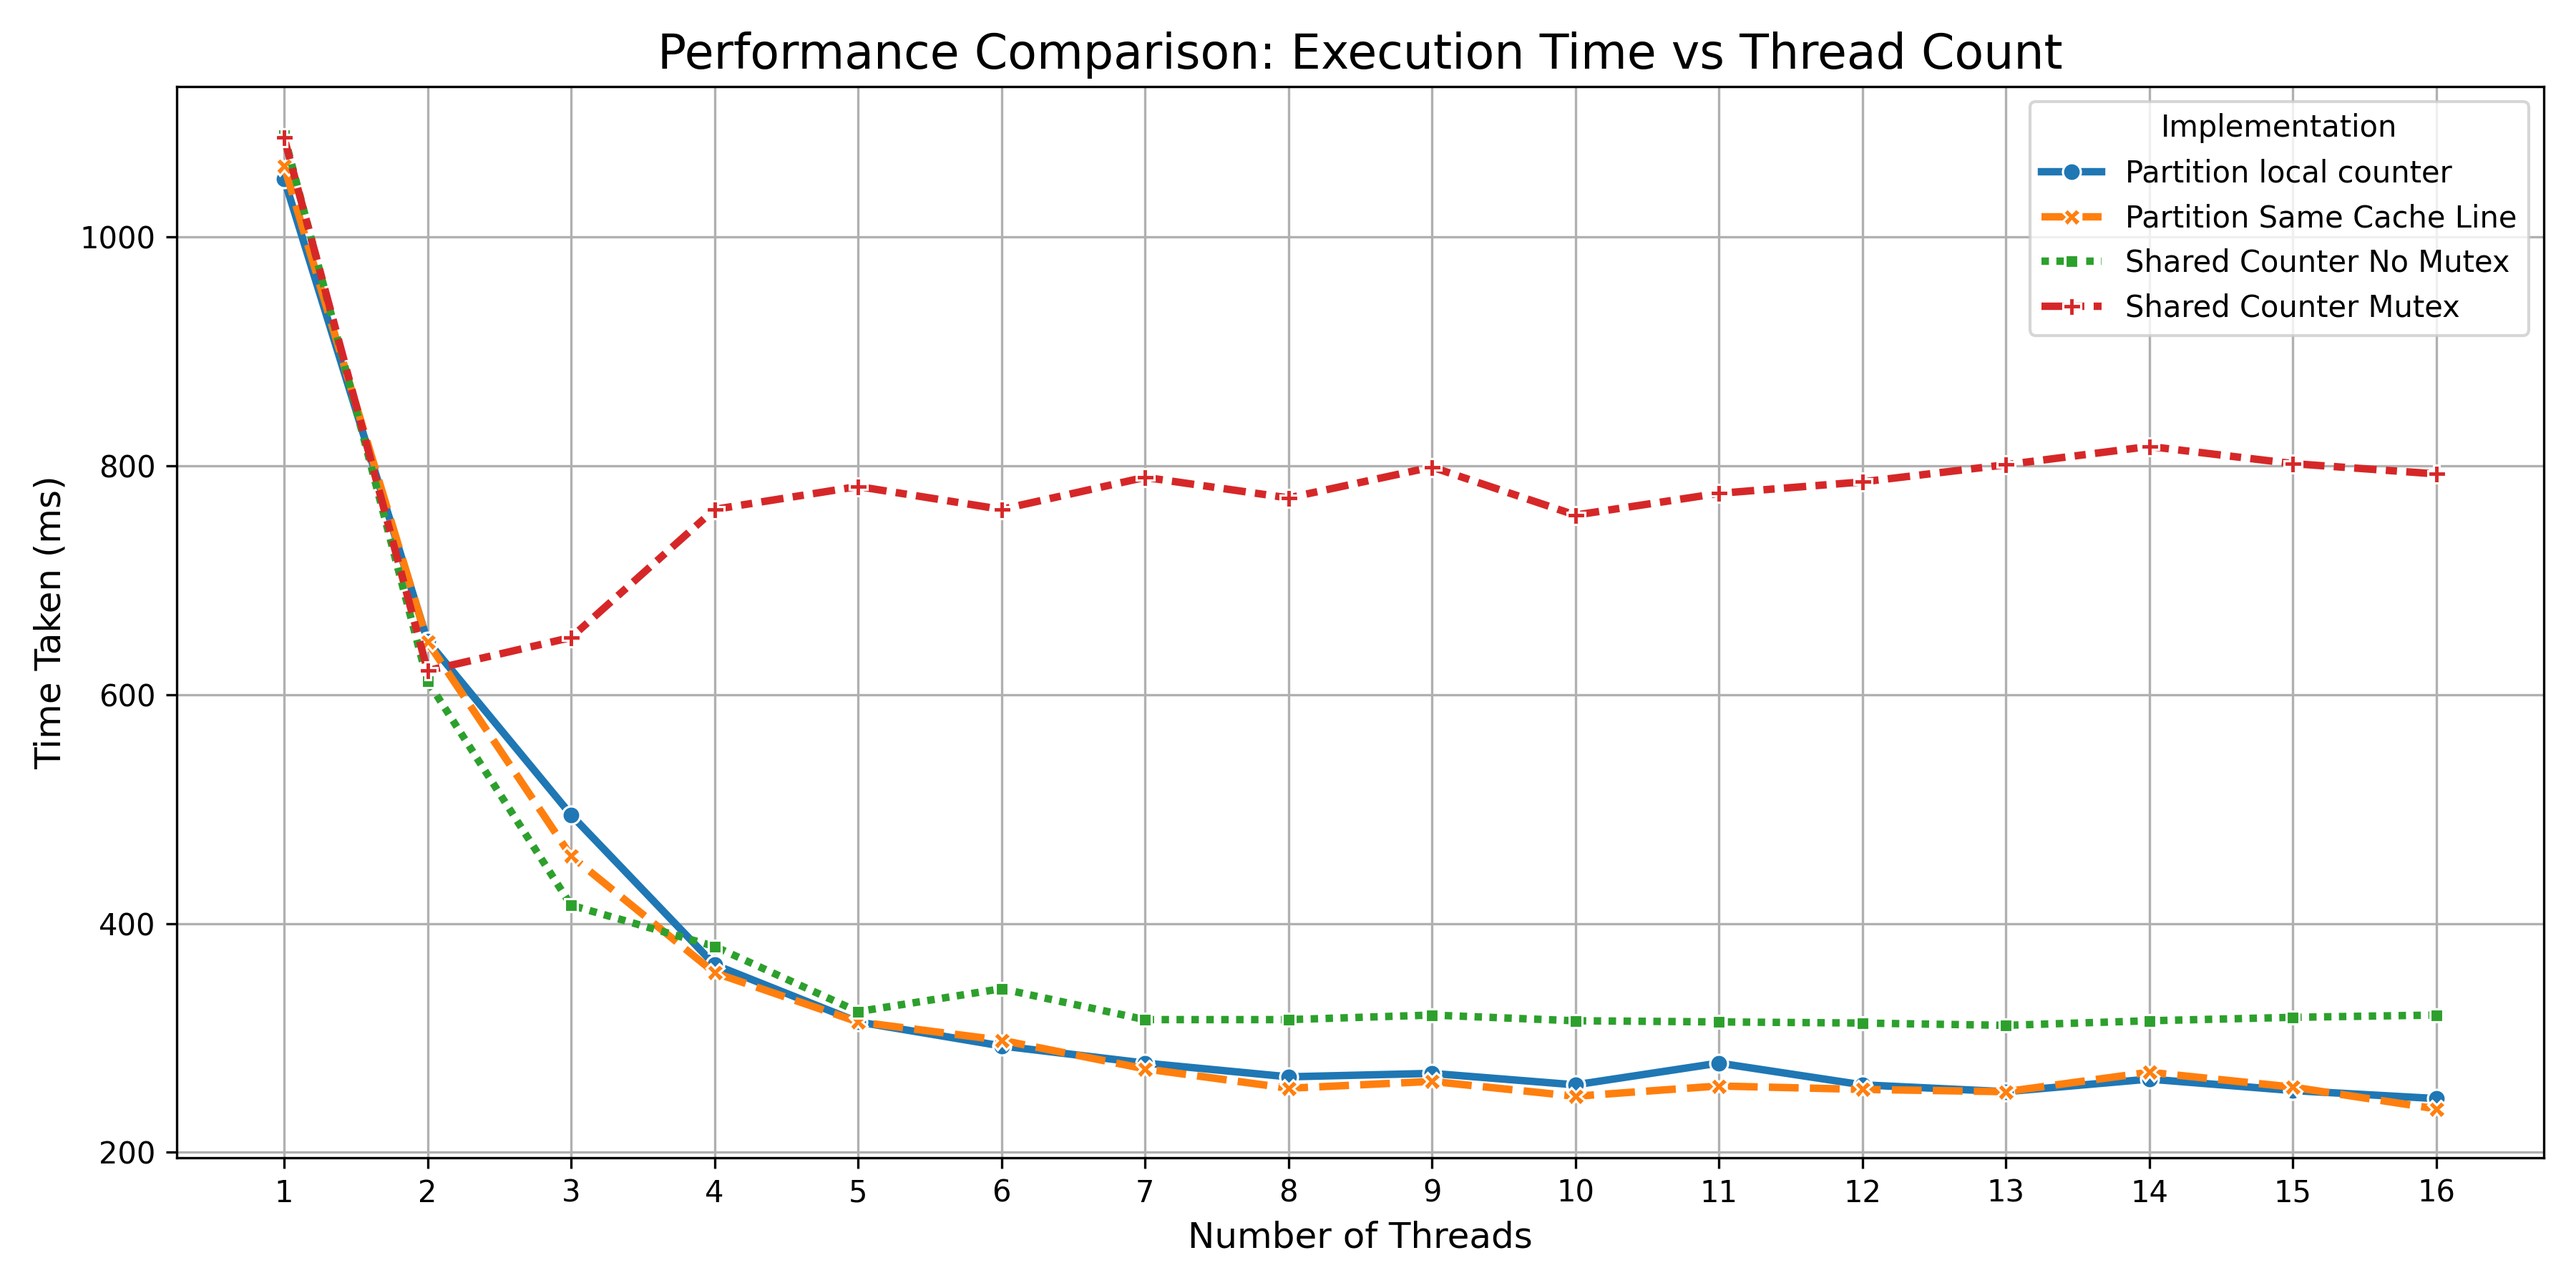
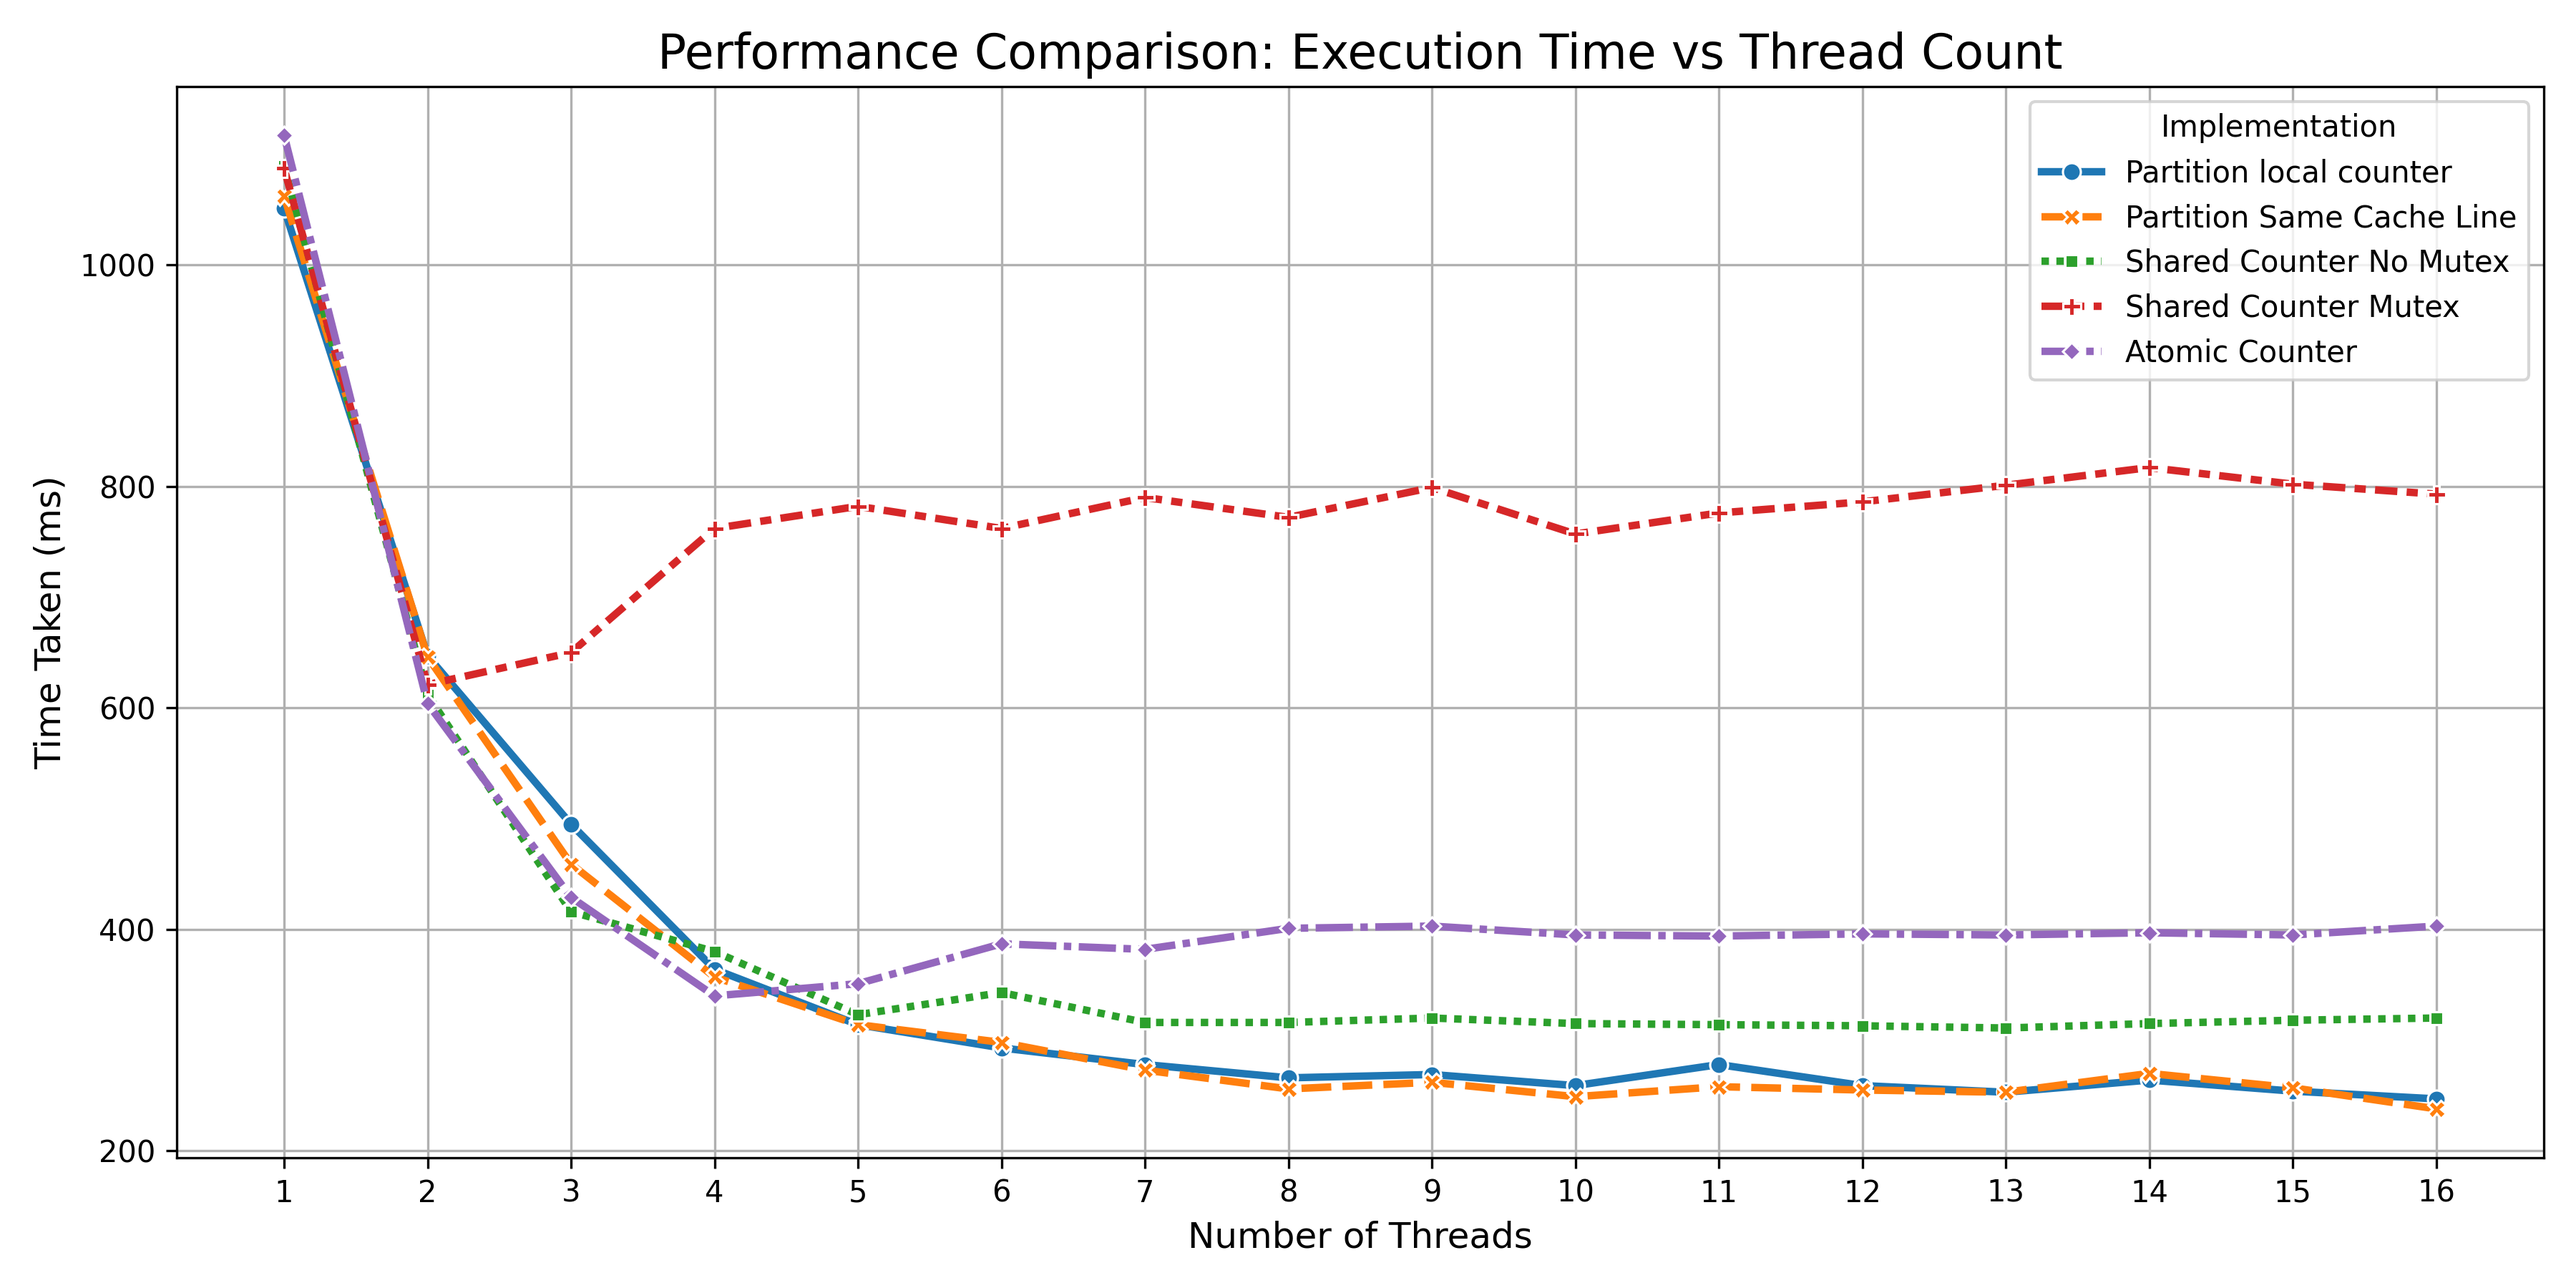
atomic counter is prime

diff --git a/parallelism-is-prime/AtomicCounterIsPrime.java b/parallelism-is-prime/AtomicCounterIsPrime.java
@@ -1,0 +1,110 @@
+import java.util.ArrayList;
+import java.util.List;
+import java.util.concurrent.atomic.AtomicInteger;
+
+public class AtomicCounterIsPrime {
+
+    static AtomicInteger counter = new AtomicInteger(0);
+    static class SumAggregator {
+        private int sum = 0;
+
+        public synchronized void add(int value) {
+            sum += value;
+        }
+
+        public int getSum() {
+            return sum;
+        }
+    }
+    static class MyThread extends Thread {
+        private int size;
+        private int count;
+        private SumAggregator sumAggregator;
+        public MyThread(int size, SumAggregator sumAggregator) {
+            count = 0;
+            this.sumAggregator = sumAggregator;
+            this.size = size;
+        }
+    
+        @Override
+        public void run() {
+            super.run();
+            // System.out.format("Thread %s started processing from %s to %s\n",
+            // Thread.currentThread().getName(), start, end);
+            int i = 0;
+            while((i = counter.getAndIncrement()) < size) {
+                if (isPrime(i)) {
+                    count++;
+                }
+            }
+            sumAggregator.add(count);
+        }
+    }
+
+    private static boolean isPrime(int n) {
+        if (n <= 1)
+            return false;
+        if (n == 2 || n == 3)
+            return true;
+        if (n % 2 == 0)
+            return false;
+
+        for (int i = 5; i * i <= n; i += 2) {
+            if (n % i == 0) {
+                return false;
+            }
+        }
+        return true;
+    }
+
+    
+    private static int countPrimesWithThreads(int threadCount, int size)
+    throws InterruptedException {
+        // reset sum and counter
+        counter.set(0); 
+        SumAggregator sumAggregator = new SumAggregator();
+        List<Thread> threads = new ArrayList<>();
+        
+        for (int i = 0; i < threadCount; i++) {
+            MyThread myThread = new MyThread(size, sumAggregator);
+            threads.add(myThread);
+            myThread.start();
+        }
+        
+        for (Thread thread : threads) {
+            thread.join();
+        }
+        
+        return sumAggregator.getSum();
+    }
+    public static void main(String[] args) throws InterruptedException {
+        final int SIZE = 10_000_000; // total number
+    
+        try (java.io.FileWriter csvWriter = new java.io.FileWriter("prime_results_atomic_counter.csv")) {
+            // Write CSV header
+            csvWriter.append("ThreadCount,TimeTaken(ms),PrimeCount\n");
+        
+            for (int threadCount = 1; threadCount <= 16; threadCount++) {
+            long totalTime = 0;
+            int primeCount = 0;
+            int runs = 5;
+            
+            for (int run = 0; run < runs; run++) {
+                long startTime = System.currentTimeMillis();
+                
+                primeCount = countPrimesWithThreads(threadCount, SIZE);
+                
+                totalTime += System.currentTimeMillis() - startTime;
+            }
+            
+            long averageTime = totalTime / runs;
+            csvWriter.append(String.format("%d,%d,%d\n", threadCount, averageTime, primeCount));
+            System.out.printf("Threads: %d, Average time: %d ms, Primes: %d%n", 
+                threadCount, averageTime, primeCount);
+            }
+        
+        } catch (java.io.IOException e) {
+            e.printStackTrace();
+        }
+    }
+}

diff --git a/parallelism-is-prime/graph_plot.py b/parallelism-is-prime/graph_plot.py
@@ -16,7 +16,8 @@ csv_files = [
     {'path': 'prime_results_partition_data_local_counter.csv', 'name': 'Partition local counter'},
     {'path': 'prime_results_partition_same_cache_line.csv', 'name': 'Partition Same Cache Line'},
     {'path': 'prime_results_shared_counter_no_mutex.csv', 'name': 'Shared Counter No Mutex'},
-    {'path': 'prime_results_shared_counter_with_mutex.csv', 'name': 'Shared Counter Mutex'}
+    {'path': 'prime_results_shared_counter_with_mutex.csv', 'name': 'Shared Counter Mutex'},
+    {'path': 'prime_results_atomic_counter.csv', 'name': 'Atomic Counter'}
 ]
 
 # Process all CSV files
